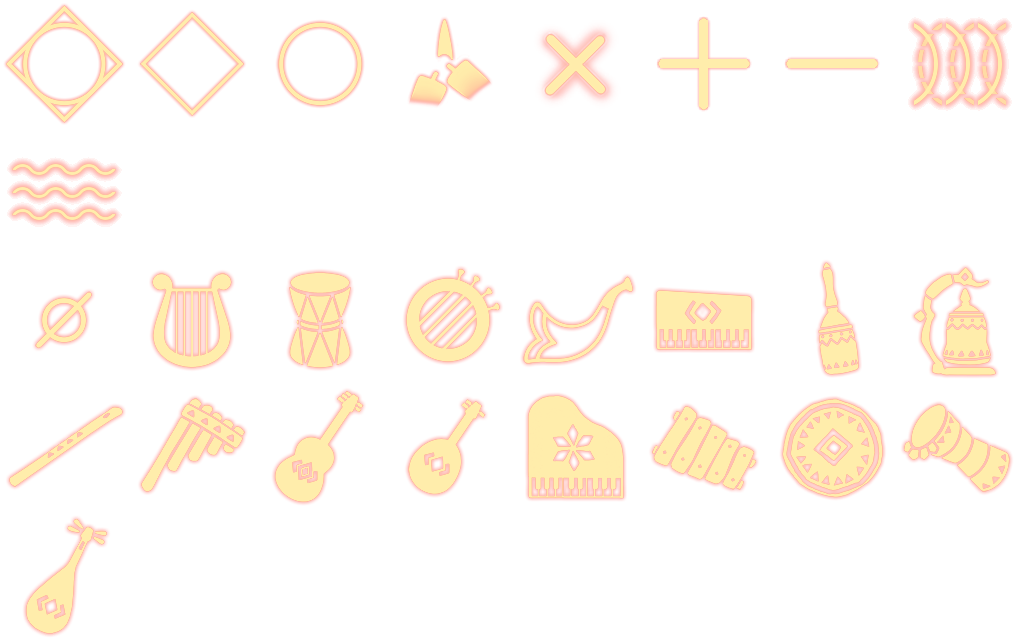
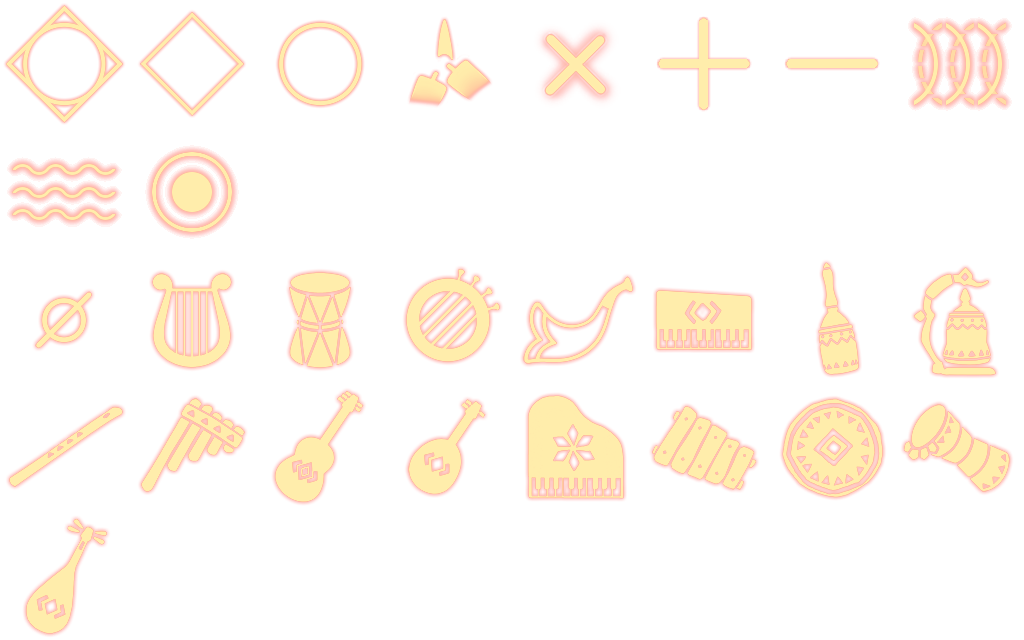
-

Changed region(s): [[0.125, 0.2188, 0.25, 0.375]]

diff --git a/instr.html b/instr.html
@@ -46,7 +46,7 @@
 			#alcb{display:none;}
 			#alcb+label{display:block;width:100%;height:100%;background:#0008;opacity:0;backdrop-filter:blur(2px);-webkit-backdrop-filter:blur(2px);pointer-events:none;transition:.2s;}
 			#alcb:checked+label{opacity:1;pointer-events:auto;}
-			#albox{width:calc(90% - 40px);max-width:256px;min-height:128px;border-radius:16px;padding:20px;white-space:pre-wrap;background:#4448;position:absolute;top:50%;left:50%;transform:translate(-50%,-50%);}
+			#albox{width:calc(90% - 40px);max-width:256px;min-height:128px;border-radius:16px;padding:20px;margin:0;box-sizing:border-box;white-space:pre-wrap;background:#4448;position:absolute;top:50%;left:50%;transform:translate(-50%,-50%);}
 
 
 			@keyframes bob{0%{transform:scale(.95);}100%{transform:scale(.9);}}
@@ -79,7 +79,7 @@
 			.menu input[type=radio]+div::before,.menu .grid::before{position:absolute;content:"";display:block;width:70px;height:70px;background:url(img/tex.webp);background-size:560px auto;background-position:var(--bp);}
 			.nowepb .menu input[type=radio]+div::before,.nowebbp .menu .grid::before{background:url(img/tex.png);}
 			.menu input[type=radio]:disabled+div{opacity:.5;}
-			.menu input[type=radio]:checked+div{box-shadow:0 0 0 2px #fea inset,0 0 8px #fea4;}
+			.menu input[type=radio]:checked+div,.menu .grid.recording{box-shadow:0 0 0 2px #fea inset,0 0 8px #fea4;}
 			.menu input[type=radio]:checked+div::before{animation:flip .4s ease-in-out;}
 			.menu .grid{touch-action:none;}.menu .grid.button:active::before{transform:scale(.8);}.menu .grid.button:not(:active)::before{transition:.2s;}
 
@@ -137,7 +137,8 @@
 				<input type="range" id="slrvd" value="0" min="0" max="6" step="0.06" onchange="reverb.decay=Math.pow(2,this.value);save();">
 			</div>
 			<hr>
-			<div id="bgsbtn" class="grid button" style="--bp:-0% -100%;">
+			<div id="envbtn" class="grid button" style="--bp:-0% -100%;">
+			</div><div id="recbtn" class="grid button" style="--bp:-100% -100%;">
 			</div><div class="grid button" style="--bp:-300% -0%;" onclick="alert(info);"></div>
 		</div>
 		<label for="menucb"><div id="mico"></div></label>
@@ -145,8 +146,8 @@
 
 		<script>
 			'use strict';
-			let synth,synth_,kbmode=0,sc=0,bgs=[[],{l:3,c:4}];
-			alert=x=>{albox.textContent=x;alcb.checked=true;}
+			let synth,synth_,kbmode=0,sc=0,env=[[],{l:3,c:0}],recorder;
+			alert=x=>{albox.textContent=x;alcb.checked=true;};
 			const reverb=new Tone.Reverb({wet:0,decay:0}).toDestination(),
 			sfx=new Tone.Players({urls:{op:'open.mp3',cl:'close.mp3',cs:'choose.mp3'},baseUrl:'audio/'}).toDestination(),
 			stdli=(a,b=a+1,s={})=>{
@@ -156,7 +157,7 @@
 				}
 				return s;
 			},
-			info='Powerd by Tone.js\nAudio: GarageBand, Tone.js Salamander(cc-by Alexander Holm), record and denoise by @McbeEringi\n\nauthor:@McbeEringi\nbuild:2103230\nMIT License',
+			info='Powerd by Tone.js\nAudio: GarageBand, Tone.js Salamander(cc-by Alexander Holm), record and denoise by @McbeEringi\n\nauthor:@McbeEringi\nbuild:2103231\nMIT License',
 			instr_li=[//[baseurl, octave, map, (map2)]
 				['audio/instr/musicbox/',1,stdli(4,6,{a3:'a3.mp3','d#7':'ds7.mp3'})],
 				['audio/instr/harp/',-1,stdli(3)],
@@ -191,13 +192,14 @@
 				KeyR:'0_0',KeyT:'0_1',KeyY:'0_2',KeyU:'0_3',
 				KeyF:'1_0',KeyG:'1_1',KeyH:'1_2',KeyJ:'1_3'
 			}],
-			save=()=>{localStorage.instr_sc=sc;localStorage.instr_instr=menu.instr.value;localStorage.instr_reverb=`${slrvw.value},${slrvd.value}`;console.log('saved');},
+			save=()=>{localStorage.instr_sc=sc;localStorage.instr_instr=menu.instr.value;localStorage.instr_reverb=`${slrvw.value},${slrvd.value}`;localStorage.instr_env=env[1].c;console.log('saved');},
 			load=()=>{
-				let c=[localStorage.instr_sc,localStorage.instr_instr,localStorage.instr_reverb];
+				let c=[localStorage.instr_sc,localStorage.instr_instr,localStorage.instr_reverb,localStorage.instr_env];
 				if(c){
 					if(c[0])sc=parseInt(c[0]);
 					if(c[1])try{menu.instr[parseInt(c[1])].checked=true;}catch(e){console.log(e);}
 					if(c[2])try{[slrvw.value,slrvd.value]=c[2].split(',');[reverb.wet.value,reverb.decay]=[slrvw.value,Math.pow(2,slrvd.value)];}catch(e){console.log(e);}
+					if(c[3])try{env[1].c=Number(c[3]);}catch(e){console.log(e);}
 					console.log('loaded');
 				}
 			},
@@ -220,7 +222,7 @@
 						synth_=synth;
 						break;
 					case '6':case '7':
-						synth_=new Tone.Sampler(instr_li[menu.instr.value][3],()=>{},instr_li[menu.instr.value][0]).toDestination();
+						synth_=new Tone.Sampler(instr_li[menu.instr.value][3],()=>{},instr_li[menu.instr.value][0]).connect(reverb);
 						break;
 					case '14':synth_=synth;break;
 					default:kbmode=0;synth_=null;pkb.style.display='none';kb.style.display='';
@@ -232,8 +234,7 @@
 			},
 			trigger=id=>{
 				switch(kbmode){
-					case 0:
-						//C4~C6
+					case 0://C4~C6
 						synth.triggerAttackRelease(440*Math.pow(2,(parseInt(id.slice(1))+(scd.style.opacity=='1'?sc:0))/12+instr_li[menu.instr.value][1]));
 						break;
 					case 1:
@@ -248,57 +249,65 @@
 				scd_.style.transform=`rotate(${sc*30}deg)`;
 				if(x){
 					save();
-					synth.triggerAttackRelease(440*Math.pow(2,(3+sc)/12+instr_li[menu.instr.value][1]),'1m');
+					synth.triggerAttackRelease(440*Math.pow(2,(3+sc)/12+instr_li[menu.instr.value][1]),'1m','+.05');
 					if(kbmode==0){
-						synth.triggerAttackRelease(440*Math.pow(2,(7 +sc)/12+instr_li[menu.instr.value][1]),'1m','+.05');
-						synth.triggerAttackRelease(440*Math.pow(2,(10+sc)/12+instr_li[menu.instr.value][1]),'1m','+.1');
+						synth.triggerAttackRelease(440*Math.pow(2,(7 +sc)/12+instr_li[menu.instr.value][1]),'1m','+.1');
+						synth.triggerAttackRelease(440*Math.pow(2,(10+sc)/12+instr_li[menu.instr.value][1]),'1m','+.15');
+					}
+				}
+			},
+			envplay=()=>{
+				env[0].forEach(y=>{if(y)y.stop();});
+				if(env[1].c<=env[1].l){
+					if(env[0][env[1].c])env[0][env[1].c].start();
+					else{
+						env[0][env[1].c]=new Tone.Player({url:`audio/env${env[1].c}.mp3`,volume:-8,autostart:true,loop:true,fadeIn:5,fadeOut:2}).toDestination();
+						if(recorder)env[0][env[1].c].connect(recorder);
 					}
 				}
 			};
 
-
-			load();set();scale(0);
-
+			try{recorder=new Tone.Recorder();reverb.connect(recorder);}catch(e){console.log(e);recbtn.style.filter='grayscale(1)opacity(.5)';recbtn.style.pointerEvents='none';}
+			load();set();scale();envplay();
 			document.querySelectorAll('.kb>div>div').forEach(key=>{
 				key.appendChild(document.createElement('div'));
 				//sound & anm
-				function up(e){this.classList.remove('pushed');e.preventDefault();}
-				key.addEventListener('touchstart',function(e){
-					e.preventDefault();trigger(this.id);
-					this.classList.remove('pushed');void this.offsetWidth;this.classList.add('pushed','anm');
-				},{passive:false});
-				key.addEventListener('mousedown',function(e){
-					e.preventDefault();trigger(this.id);
-					this.classList.remove('pushed');void this.offsetWidth;this.classList.add('pushed','anm');
-					setTimeout(()=>this.classList.remove('pushed'),150);
-				},{passive:false});
-				key.addEventListener('touchend',up,{passive:false});
-				key.addEventListener('touchcancel',up,{passive:false});
-				key.addEventListener('animationend',function(){this.classList.remove('anm');});
+				const down=e=>{
+					e.preventDefault();trigger(key.id);
+					key.classList.remove('pushed');void key.offsetWidth;key.classList.add('pushed','anm');
+				},up=e=>{e.preventDefault();key.classList.remove('pushed');};
+				['touchstart','mousedown'].forEach(x=>key.addEventListener(x,down,{passive:false}));
+				['touchend','touchcancel','mouseup','mouseleave'].forEach(x=>key.addEventListener(x,up,{passive:false}));
+				key.addEventListener('animationend',()=>{key.classList.remove('anm');});
 			})
 			document.addEventListener('keydown',e=>{if(keymap[kbmode][e.code]&&kb.style.opacity=='1')window[keymap[kbmode][e.code]].dispatchEvent(new Event('touchstart'));});
 			document.addEventListener('keyup',e=>{if(keymap[kbmode][e.code]&&kb.style.opacity=='1')window[keymap[kbmode][e.code]].dispatchEvent(new Event('touchend'));});
-			bgsbtn.onclick=()=>{
-				console.log(bgs);
-				try{bgs[0][bgs[1].c].stop();}catch(e){}
-				if(bgs[1].l<bgs[1].c)bgs[1].c=0;else bgs[1].c++;
-				alert('ambient sound\n\n\t>>'+['hotspring','home','forest','vault','🔇'][bgs[1].c])
-				if(bgs[1].c<=bgs[1].l&&!bgs[0][bgs[1].c])
-					bgs[0][bgs[1].c]=new Tone.Player({url:`audio/env${bgs[1].c}.mp3`,volume:-8,autostart:true,loop:true,fadeIn:5,fadeOut:2}).toDestination();
-				else try{bgs[0][bgs[1].c].start();}catch(e){console.log('bgs muted');}
+			envbtn.onclick=()=>{
+				console.log(env);
+				if(env[1].l<env[1].c)env[1].c=0;else env[1].c++;
+				alert('ambient sound\n\n\t>>'+['hotspring','home','forest','vault','🔇'][env[1].c]);
+				envplay();save();
+			};
+			recbtn.onclick=e=>{
+				if(e.target.classList.toggle('recording'))recorder.start();
+				else(async()=>{
+					let recording=await recorder.stop(),e=document.createElement('a');
+					e.download=`sky_instr ${new Date().toLocaleString()}.${/\/mp/.test(recorder.mimeType)?'m4a':'webm'}`;e.href=URL.createObjectURL(recording);
+					e.click();llog('rcstop');setTimeout(URL.revokeObjectURL,3000,e.href);
+				})();
 			};
 
-			/*document.addEventListener('visibilitychange',()=>{
-				if(document.visibilityState=='visible'){bgv.play();console.log('become visible');location.reload(false);}
-				if(document.visibilityState=='hidden')console.log('become hidden');
-			});
 			const fsc=()=>{
 				let doc=window.document,docEl=doc.documentElement;
 				let init=docEl.requestFullscreen||docEl.mozRequestFullScreen||docEl.webkitRequestFullScreen||docEl.msRequestFullscreen;
 				let exit=doc.exitFullscreen||doc.mozCancelFullScreen||doc.webkitExitFullscreen||doc.msExitFullscreen;
 				if(doc.fullscreenElement||doc.mozFullScreenElement||doc.webkitFullscreenElement||doc.msFullscreenElement)exit.call(doc);
 				else init.call(docEl);
-			};*/
+			};
+			/*document.addEventListener('visibilitychange',()=>{
+				if(document.visibilityState=='visible'){bgv.play();console.log('become visible');location.reload(false);}
+				if(document.visibilityState=='hidden')console.log('become hidden');
+			});*/
 		</script>
 	</body>
 </html>

diff --git a/skysw.js b/skysw.js
@@ -1,6 +1,6 @@
 //https://developer.mozilla.org/ja/docs/Web/Progressive_web_apps/Offline_Service_workers
 //https://developers.google.com/web/fundamentals/primers/service-workers?hl=ja
-const cacheName='cache210323_1',STATIC_DATA=[
+const cacheName='cache210323_2',STATIC_DATA=[
 	'style.js',
 	'img/sky_.svg',
 	'img/sky.png',

diff --git a/seq.js b/seq.js
@@ -235,7 +235,7 @@ recbtn.onclick=e=>{
 		e.download=`${main.name||'recording'}.${/\/mp/.test(recorder.mimeType)?'m4a':'webm'}`;e.href=URL.createObjectURL(recording);
 		e.click();llog('rcstop');setTimeout(URL.revokeObjectURL,3000,e.href);
 	})();
-}
+};
 
 
 const sopt={
